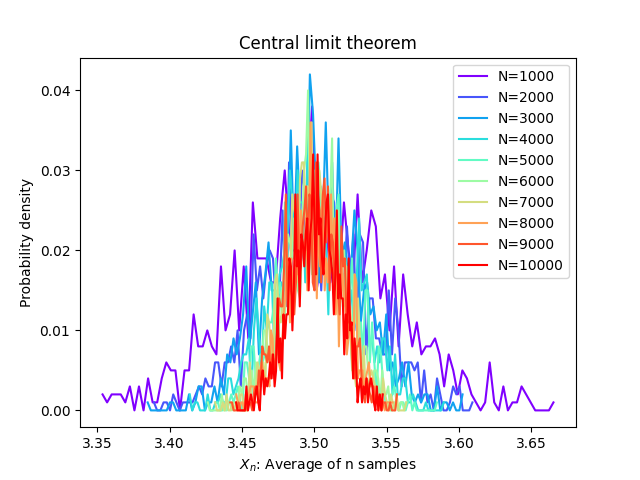
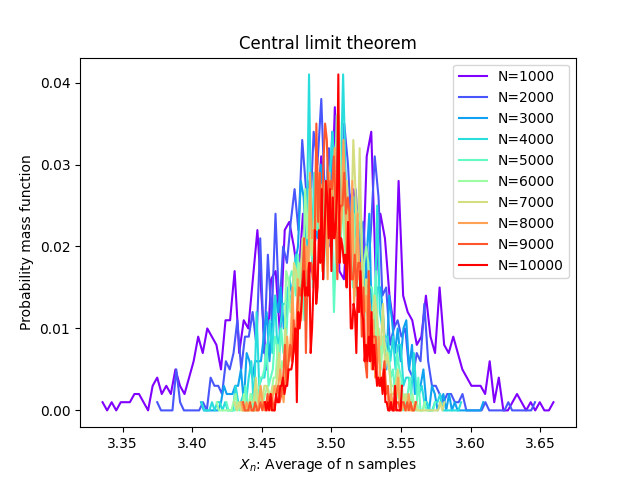
almost finished

diff --git a/Assignment2/problem5.py b/Assignment2/problem5.py
@@ -2,27 +2,43 @@
 
 import numpy as np
 
-# generate random variable x from a normal distribution with average=50, std=5
-mux=50
-sigmax=5
-sizex=10000
-x=random.normal(loc=mux,scale=sigmax,size=sizex)
+# Function to calculate I4 for any samples of random variables
+def I4(samplearr):
+    avg=np.average(samplearr)
+    M2=np.sum(np.power(samplearr-np.full(samplearr.shape,avg),2))/samplearr.shape[0]
+    M4=np.sum(np.power(samplearr-np.full(samplearr.shape,avg),4))/samplearr.shape[0]
+    return M4-3*M2*M2
 
-# generate random variable x from a normal distribution with average=100, std=20
-muy=100
-sigmay=20
-sizey=10000
-y=random.normal(loc=muy,scale=sigmay,size=sizey)
 
-# Calculate the average of the data points drawn from the distribution
-avgx=np.average(x)
-avgy=np.average(y)
+if __name__=="__main__":
+    SampleNo=1000000
 
-# Calculate the individual semi-invariant I4
-I4x=np.power(x-np.full(x.shape,avgx),4)/sizex
-I4y=np.sum(np.power(y-np.full(y.shape,avgy),4))/sizey
+# generate random variable x from a normal distribution with average=100, std=3
+    mux=100
+    sigmax=3
+    sizex=SampleNo
+    x=np.random.normal(loc=mux,scale=sigmax,size=sizex)
 
-I4tot=np.
+# generate random variable x from a normal distribution with average=200, std=5
+    muy=200
+    sigmay=7
+    sizey=SampleNo
+    y=np.random.normal(loc=muy,scale=sigmay,size=sizey)
+
+# get I4's
+    I4x=I4(x)
+    I4y=I4(y)
+
+# Calculate the summed random variable (X+Y)
+    z=np.add(x,y)
+
+    I4z=I4(z)
+
+    print("Semi-variant I4 for X is ",I4x)
+    print("Semi-variant I4 for Y is ",I4y)
+    print("The sum of semi-variants I4x and I4y is ",I4x+I4y)
+    print("The semi-variant I4 for (X+Y) is ",I4z)
+
 
 
 

diff --git a/Assignment2/problem3.py b/Assignment2/problem3.py
@@ -52,18 +52,23 @@ for Ntrial in n:
             VALS=random.choices(sequence,k=Ntrial)
             AVGARR[i]=sum(VALS)/len(VALS)
         counts,bin_edges=np.histogram(AVGARR,bins=100)
+        counts2,bin_edges2=np.histogram(AVGARR,bins=100,density=True)
         probability=counts/float(counts.sum())
         name="N="+str(Ntrial)
         bins=(bin_edges[:-1]+bin_edges[1:])/2
+        bins2=(bin_edges2[:-1]+bin_edges2[1:])/2
 # plot distribution curves
         ax.plot(bins,probability,label=name,c=color[c])
+        #ax.plot(bins2,counts2,label=name,c=color[c])
         c+=1
 
 ax.set_xlabel(r"$X_n$: Average of n samples")
-ax.set_ylabel(r"Probability density")
+ax.set_ylabel(r"Probability mass function")
+#ax.set_ylabel("Probability density function")
 ax.set_title("Central limit theorem")
 ax.legend()
 plt.savefig("CLT.png")
+#plt.savefig("PDF.png")
 
 
 

diff --git a/Assignment2/problem5b.py b/Assignment2/problem5b.py
@@ -1,0 +1,26 @@
+#!/usr/bin/python3
+
+import numpy as np
+import os
+import random
+from problem5 import I4
+
+# Draw a list of random variables from the following sequence
+xseq=[1,2,3,4,5,6,7]
+yseq=[100,101,102,103,104,105,106,107,108]
+N=100000
+x=np.asarray(random.choices(xseq,k=N))
+y=np.asarray(random.choices(yseq,k=N))
+z=np.add(x,y)
+
+I4x=I4(x)
+I4y=I4(y)
+I4z=I4(z)
+
+print("Semi-variant I4 for X is ",I4x)
+print("Semi-variant I4 for Y is ",I4y)
+print("The sum of semi-variants I4x and I4y is ",I4x+I4y)
+print("The semi-variant I4 for (X+Y) is ",I4z)
+
+
+

diff --git a/Assignment2/problem6.py b/Assignment2/problem6.py
@@ -1,0 +1,20 @@
+#!/usr/bin/python3
+
+import os
+import random
+import numpy as np
+import math
+import matplotlib.pyplot as plt
+
+
+N=10000
+x=np.linspace(0,1,num=N)
+A=math.factorial(38)/math.factorial(13)/math.factorial(24)
+y=A*np.power(x,13)*np.power(np.subtract(1,x),24)
+
+fig,ax=plt.subplots()
+ax.plot(x,y)
+ax.set_xlim([0,1])
+ax.set_title("normalized posterior distribution")
+plt.savefig("posterior.png")
+
